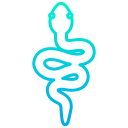
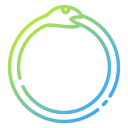
Teste com objeto giratório

Changed region(s): [[0.0312, 0.0, 0.9688, 1.0], [0.3125, 0.4375, 0.5625, 0.5625], [0.4688, 0.5625, 0.625, 0.6562]]

diff --git a/test.py b/test.py
@@ -11,14 +11,20 @@ def get_close():
 
 screen = Screen()
 
-SNAKE_FIG = pg.image.load('assets/img/snake_test.png')
-SWORD = pg.image.load('assets/img/weapon.png')
+SNAKE = pg.image.load('assets/img/snake_test.png')
+SNAKE = pg.transform.scale(SNAKE,(90,90))
 
-master = GameObject(screen, SNAKE_FIG, y=180, vy=-5)
-slv1 = GameObject(master, SNAKE_FIG, -200,100)
-slv2 = GameObject(slv1, SNAKE_FIG, -200,100)
+KUNAI = pg.image.load('assets/img/weapon.png')
+KUNAI = pg.transform.scale(KUNAI,(90,90))
 
-sword = GameObject(slv2, SWORD, y=-128)
+master = GameObject(screen, SNAKE, y=180, vy=-5)
+slv1 = GameObject(master, SNAKE, -200,100)
+slv2 = GameObject(slv1, SNAKE, -200,100)
+
+sword = GameObject(slv1, KUNAI, y=-SNAKE.get_rect().size[1])
+
+w = 2.5
+angle = w
 
 for i in range(100):
     if get_close():
@@ -28,22 +34,41 @@ for i in range(100):
     master.update()
     slv1.update()
     slv2.update()
-    sword.update()
+    sword.set_img(pg.transform.rotate(KUNAI,angle))
+    sword.set_position(sword.get_position().rotate(-w))
+    angle += w
+    angle %= 360
 
-master.set_spd((4,0))
-slv1.set_spd((-4,0))
-slv2.set_spd((5,5))
+master.set_spd((2,0))
+slv1.set_spd((-2,0))
+slv2.set_spd((2,2))
 
-for i in range(100):
+for i in range(200):
     if get_close():
-        break
+        exit()
     screen.update()
     sleep(0.001)
     master.update()
     slv1.update()
     slv2.update()
-    sword.update()
+    sword.set_img(pg.transform.rotate(KUNAI,angle))
+    sword.set_position(sword.get_position().rotate(-w))
+    angle += w
+    angle %= 360
+
+master.set_spd((0,0))
+slv1.set_spd((0,0))
+slv2.set_spd((0,0))
 
 while True:
     if get_close():
-        break
+        exit()
+    screen.update()
+    sleep(0.001)
+    master.update()
+    slv1.update()
+    slv2.update()
+    sword.set_img(pg.transform.rotate(KUNAI,angle))
+    sword.set_position(sword.get_position().rotate(-w))
+    angle += w
+    angle %= 360
